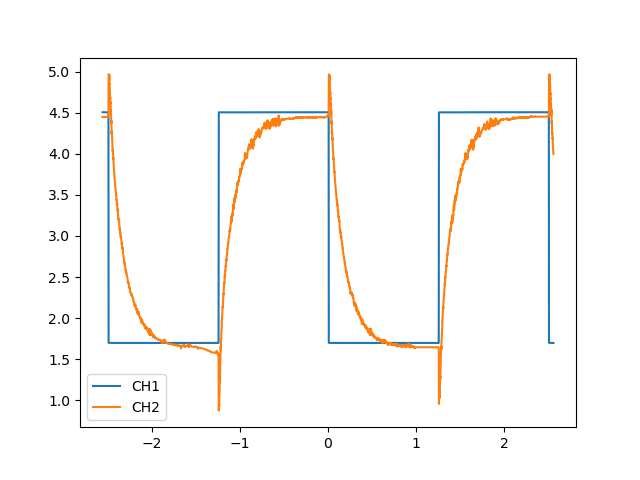
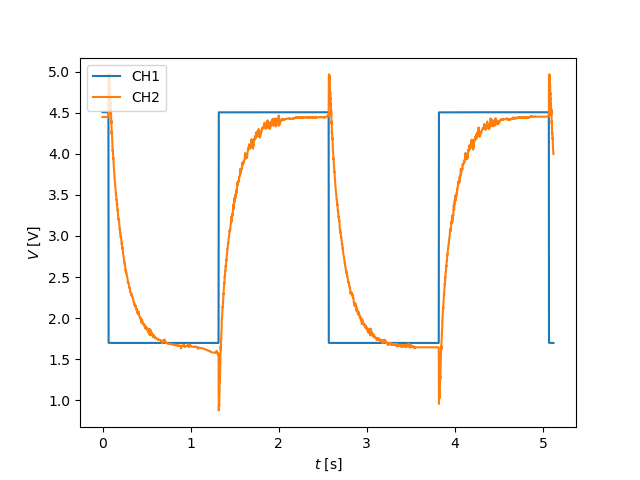
added labels

diff --git a/plotter_LF(2).py b/plotter_LF(2).py
@@ -1,0 +1,60 @@
+#Redigeringslogg:
+#2023 - Emil Johnsen
+import numpy as np
+import pandas as pd
+import matplotlib.pyplot as plt
+from tikzplotlib import save as save_tikz
+#Husk at dere må ha disse pakkene installert. Dette kan gjøres med pip
+
+# Vi bruker denne for å få pyplot til å bruke latex til tegning av figurtekst på akser osv
+# Det går også an å sette fontstørrelse her, men å sette figurstørrelsen vil i de fleste tilfeller
+# ha samme effekt
+# Hvis dere ikke ønkser å bruke latex til tegning av figurtekst på akser osv, må dere kommentere ut de følgende kodelinjene
+plt.rcParams.update({
+   "text.usetex": True,
+   "font.family": "sans-serif",
+   "font.sans-serif": ["Helvetica"]})
+
+# Her kan dere legge inn flere filer om dere trenger det
+file1 = "csv-fil som inneholder data dere ønsker å plotte"
+
+data1 = pd.read_csv(file1)
+
+# Hent ut måleserie og tid, konverter til numpy
+time = data1.iloc[:,0].to_numpy()
+signal = data1.iloc[:,1].to_numpy()
+
+time = time - np.min(time) # Setter starten på tidsaksen til 0
+time = time*1000 # Setter tidsakse til ms
+
+# Plot med pyplot, her kan dere bruke så mye avanserte funksjoner dere vil, med subplots osv
+fig,a = plt.subplots(1,1)
+# Vi hopper 100 punkter om gangen her for å spare regnekraft når vi tegner plottet. Denne må tilpasses til hvor tett data er samplet
+a.plot(time[::100],signal[::100])
+a.set_xlabel("$t$ [ms]")
+a.set_ylabel("$V$ [V]")
+
+# Lagre data i et egnet format, her ligger eksempler for både tikz og eps
+# Dersom du bruker Tikz, må du bruke pakkene pgfplots og tikz i latex-dokumentet ditt
+# Enkel lagring
+save_tikz('filsti.../filNavn.tex') #Merk: denne funker ikke om dere bruker plt.show() i scriptet
+# Mer avansert, her legger vi inn symboler for å styre figurstørrelsen som vi kan styre
+# direkte i latex
+save_tikz('filsti.../filNavn.tex',axis_height='\\figH',axis_width='\\figW') #Merk: denne funker ikke om dere bruker plt.show() i scriptet
+
+# Bruker du sistnevnte, må du legge til følgende 4 linjer i latex-dokumentet ditt:
+# \newlength\figH
+# \newlength\figW
+# \setlength{\figH}{4cm}
+# \setlength{\figW}{8cm}
+
+# For eps må du bruke pakken graphicx i latex
+# Med eps lagres plottet som et bilde, som betyr at
+# dere må justere størrelsen på figuren manuelt før dere lagrer for å sikre at fontstørrelsen
+# blir lesbar:
+fig.set_size_inches(4,3)
+plt.tight_layout()
+plt.savefig('filNavn.eps',format='eps')
+
+# Viser plottet til slutt for å sjekke om alt ser greit ut - MERK: denne må kommenteres ut om dere bruker save_tikz
+plt.show()

diff --git a/bodePlot(1).py b/bodePlot(1).py
@@ -1,0 +1,28 @@
+#Redigeringslogg:
+#2022 - Emil Johnsen
+#2023 - Emil Johnsen
+import matplotlib.pyplot as plt
+from tikzplotlib import save as save_tikz
+
+#LEGG INN FREKVENSENE HER
+freq_vector = []
+#LEGG INN FORSTERKNING I dB HER
+amplitude_db_vector = []
+#LEGG INN FASEFORSKYVNING I GRADER HER
+phase_deg_vector = []
+
+#de følgende linjene lager bodeplot for amplitude og faseforskyvning
+fig, (gain_dB,phase_deg) = plt.subplots(2)
+fig.suptitle("Bodeplot av forsterkning og faseforskyvning")
+gain_dB.plot(freq_vector,amplitude_db_vector)
+gain_dB.set_xlabel('$\omega$ [Hz]')
+gain_dB.set_xscale('log')
+gain_dB.set_ylabel('$K$ [dB]')
+phase_deg.plot(freq_vector,phase_deg_vector)
+phase_deg.set_xlabel('$\omega$ [Hz]')
+phase_deg.set_ylabel('$\psi$ [deg]')
+phase_deg.set_xscale('log')
+plt.show()
+
+#Dere kan kommentere ut denne linja for å lagre figuren som en latex-figur - Husk at dere da må legge inn hele filstien
+#save_tikz('bode_phaser_test.tex')

diff --git a/generalPlot.py b/generalPlot.py
@@ -6,7 +6,7 @@ x = []
 channel_one = []
 channel_two = []
 
-filename = 'instrumenteringsforsterker_gain'
+filename = 'squareWave_04hz'
 filepath = 'motorlabData/' + filename + '.csv'
 newfilePath = 'plots/' + filename + '.png'
 
@@ -18,11 +18,16 @@ with open(filepath, 'r') as csvfile:
         channel_one.append(float(row[1]))
         channel_two.append(float(row[2]))
 
+x = np.array(x)
+x = x - x[0]
+
 print(len(x))
 
 
 plt.plot(x, channel_one, label='CH1')
 plt.plot(x, channel_two, label='CH2')
-plt.legend()
+plt.xlabel("$t$ [s]")
+plt.ylabel("$V$ [V]")
+plt.legend(loc=2)
 plt.savefig(newfilePath)
 plt.show()
